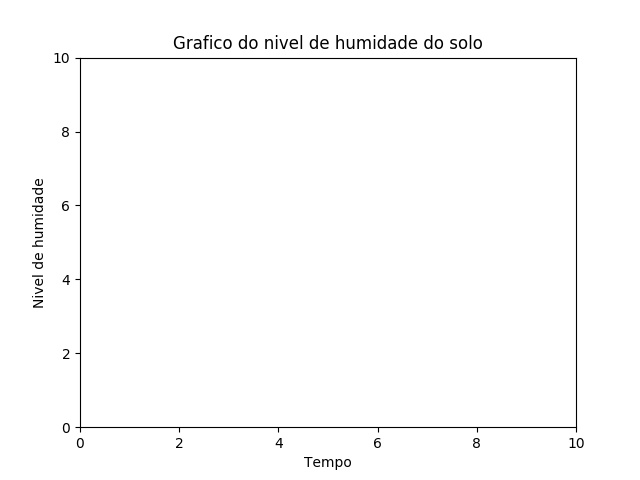
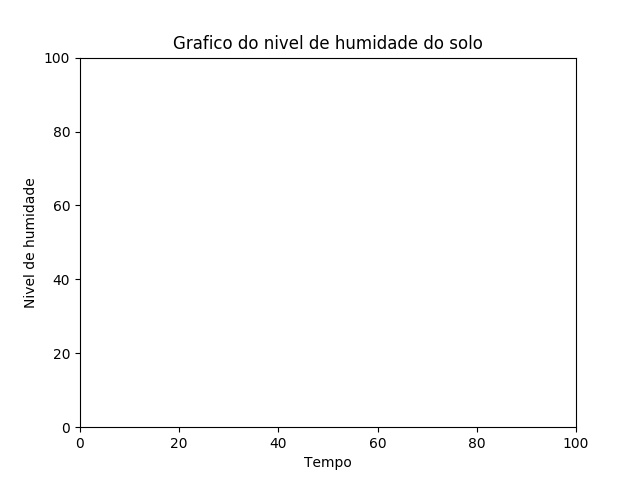
atualizacao

diff --git a/controle_estufa/ui_controle_estufa5.py b/controle_estufa/ui_controle_estufa5.py
@@ -11,12 +11,12 @@ from PyQt5 import QtCore, QtGui, QtWidgets
 class Ui_controle_estufa(object):
     def setupUi(self, controle_estufa):
         controle_estufa.setObjectName("controle_estufa")
-        controle_estufa.resize(619, 259)
+        controle_estufa.resize(412, 325)
         self.centralwidget = QtWidgets.QWidget(controle_estufa)
         self.centralwidget.setEnabled(True)
         self.centralwidget.setObjectName("centralwidget")
         self.horizontalLayoutWidget = QtWidgets.QWidget(self.centralwidget)
-        self.horizontalLayoutWidget.setGeometry(QtCore.QRect(10, 200, 451, 51))
+        self.horizontalLayoutWidget.setGeometry(QtCore.QRect(10, 270, 391, 51))
         self.horizontalLayoutWidget.setObjectName("horizontalLayoutWidget")
         self.horizontalLayout = QtWidgets.QHBoxLayout(self.horizontalLayoutWidget)
         self.horizontalLayout.setContentsMargins(0, 0, 0, 0)
@@ -28,7 +28,7 @@ class Ui_controle_estufa(object):
         self.regador.setObjectName("regador")
         self.horizontalLayout.addWidget(self.regador)
         self.horizontalLayoutWidget_2 = QtWidgets.QWidget(self.centralwidget)
-        self.horizontalLayoutWidget_2.setGeometry(QtCore.QRect(20, 79, 441, 111))
+        self.horizontalLayoutWidget_2.setGeometry(QtCore.QRect(10, 150, 391, 111))
         self.horizontalLayoutWidget_2.setObjectName("horizontalLayoutWidget_2")
         self.horizontalLayout_2 = QtWidgets.QHBoxLayout(self.horizontalLayoutWidget_2)
         self.horizontalLayout_2.setContentsMargins(0, 0, 0, 0)
@@ -45,7 +45,7 @@ class Ui_controle_estufa(object):
         self.lcd_umidade.setObjectName("lcd_umidade")
         self.horizontalLayout_2.addWidget(self.lcd_umidade)
         self.horizontalLayoutWidget_3 = QtWidgets.QWidget(self.centralwidget)
-        self.horizontalLayoutWidget_3.setGeometry(QtCore.QRect(20, 20, 441, 61))
+        self.horizontalLayoutWidget_3.setGeometry(QtCore.QRect(10, 90, 391, 61))
         self.horizontalLayoutWidget_3.setObjectName("horizontalLayoutWidget_3")
         self.horizontalLayout_3 = QtWidgets.QHBoxLayout(self.horizontalLayoutWidget_3)
         self.horizontalLayout_3.setContentsMargins(0, 0, 0, 0)
@@ -64,20 +64,32 @@ class Ui_controle_estufa(object):
         self.label.setFont(font)
         self.label.setObjectName("label")
         self.horizontalLayout_3.addWidget(self.label)
-        self.iniciar_medicoes = QtWidgets.QPushButton(self.centralwidget)
-        self.iniciar_medicoes.setEnabled(True)
-        self.iniciar_medicoes.setGeometry(QtCore.QRect(490, 130, 121, 23))
-        self.iniciar_medicoes.setObjectName("iniciar_medicoes")
-        self.parar_medicoes = QtWidgets.QPushButton(self.centralwidget)
-        self.parar_medicoes.setGeometry(QtCore.QRect(490, 170, 121, 23))
-        self.parar_medicoes.setObjectName("parar_medicoes")
-        self.Estabelecer_conexao = QtWidgets.QPushButton(self.centralwidget)
-        self.Estabelecer_conexao.setGeometry(QtCore.QRect(490, 20, 121, 23))
+        self.verticalLayoutWidget = QtWidgets.QWidget(self.centralwidget)
+        self.verticalLayoutWidget.setGeometry(QtCore.QRect(10, 0, 160, 80))
+        self.verticalLayoutWidget.setObjectName("verticalLayoutWidget")
+        self.verticalLayout = QtWidgets.QVBoxLayout(self.verticalLayoutWidget)
+        self.verticalLayout.setContentsMargins(0, 0, 0, 0)
+        self.verticalLayout.setObjectName("verticalLayout")
+        self.Estabelecer_conexao = QtWidgets.QPushButton(self.verticalLayoutWidget)
         self.Estabelecer_conexao.setObjectName("Estabelecer_conexao")
-        self.barra_de_conexao = QtWidgets.QProgressBar(self.centralwidget)
-        self.barra_de_conexao.setGeometry(QtCore.QRect(490, 50, 121, 23))
+        self.verticalLayout.addWidget(self.Estabelecer_conexao)
+        self.barra_de_conexao = QtWidgets.QProgressBar(self.verticalLayoutWidget)
         self.barra_de_conexao.setProperty("value", 0)
         self.barra_de_conexao.setObjectName("barra_de_conexao")
+        self.verticalLayout.addWidget(self.barra_de_conexao)
+        self.verticalLayoutWidget_2 = QtWidgets.QWidget(self.centralwidget)
+        self.verticalLayoutWidget_2.setGeometry(QtCore.QRect(240, 0, 160, 80))
+        self.verticalLayoutWidget_2.setObjectName("verticalLayoutWidget_2")
+        self.verticalLayout_2 = QtWidgets.QVBoxLayout(self.verticalLayoutWidget_2)
+        self.verticalLayout_2.setContentsMargins(0, 0, 0, 0)
+        self.verticalLayout_2.setObjectName("verticalLayout_2")
+        self.iniciar_medicoes = QtWidgets.QPushButton(self.verticalLayoutWidget_2)
+        self.iniciar_medicoes.setEnabled(True)
+        self.iniciar_medicoes.setObjectName("iniciar_medicoes")
+        self.verticalLayout_2.addWidget(self.iniciar_medicoes)
+        self.parar_medicoes = QtWidgets.QPushButton(self.verticalLayoutWidget_2)
+        self.parar_medicoes.setObjectName("parar_medicoes")
+        self.verticalLayout_2.addWidget(self.parar_medicoes)
         #controle_estufa.setCentralWidget(self.centralwidget)
 
         self.retranslateUi(controle_estufa)
@@ -90,6 +102,6 @@ class Ui_controle_estufa(object):
         self.regador.setText(_translate("controle_estufa", "Regar"))
         self.label_2.setText(_translate("controle_estufa", "Temperatura [°C]"))
         self.label.setText(_translate("controle_estufa", "Umidade do solo [%]"))
+        self.Estabelecer_conexao.setText(_translate("controle_estufa", "Estabelecer conexão"))
         self.iniciar_medicoes.setText(_translate("controle_estufa", "Iniciar medições"))
         self.parar_medicoes.setText(_translate("controle_estufa", "Parar Medições"))
-        self.Estabelecer_conexao.setText(_translate("controle_estufa", "Estabelecer conexão"))

diff --git a/controle_estufa/grafico.py b/controle_estufa/grafico.py
@@ -1,0 +1,40 @@
+import matplotlib.pyplot as plt
+import numpy as np
+import time
+import serial #importacao do modulo serial
+import random
+
+
+leitura =[]
+fig, ax = plt.subplots()
+#ser = serial.Serial('/dev/ttyACM0', 9600, timeout=1) #abre porta serial ACM0
+
+i=0
+contador = 0
+eixo_x = 60
+while (i<60):
+    '''
+    while (ser.inWaiting()==0):
+     pass
+    dados  =int( ser.readline()[:-1])    #firmware deve ter um delay de pelo menos 100ms entre cada envio
+    '''
+    dados = random.randint(59,69)
+    print dados
+    ax.clear()
+    plt.title('Grafico do nivel de humidade do solo')
+    ax.set_xlim([0,eixo_x])   #faixa do eixo horizontal
+    plt.xlabel('Tempo')
+    ax.set_ylim([10,100]) # faixa do eixo vertical
+    plt.ylabel('Nivel de humidade')
+    leitura.append(dados)
+
+
+    ax.plot(leitura)
+    plt.pause(1)
+    fig.savefig('plotter.png')
+    contador = contador + 1
+    if (contador > eixo_x):
+	   leitura.pop(0)
+    i=i+1
+
+#ser.close()

diff --git a/controle_estufa/main5.py b/controle_estufa/main5.py
@@ -100,7 +100,7 @@ class controlador(QDialog, Ui_controle_estufa):
         fig, ax = plt.subplots()
         ax.clear()
         plt.title('Grafico do nivel de humidade do solo')
-        ax.set_xlim([0,10])   #faixa do eixo horizontal
+        ax.set_xlim([0,100])   #faixa do eixo horizontal
         plt.xlabel('Tempo')
         ax.set_ylim([0,10]) # faixa do eixo vertical
         plt.ylabel('Nivel de humidade')
